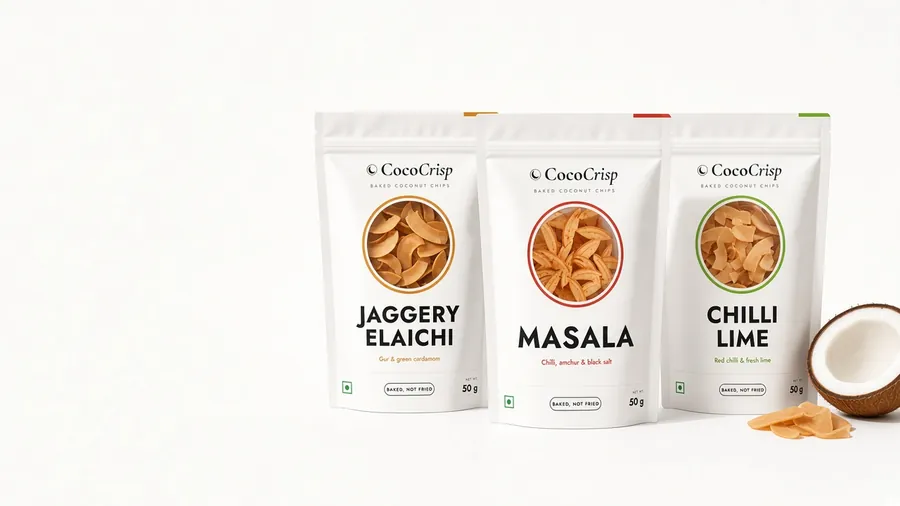
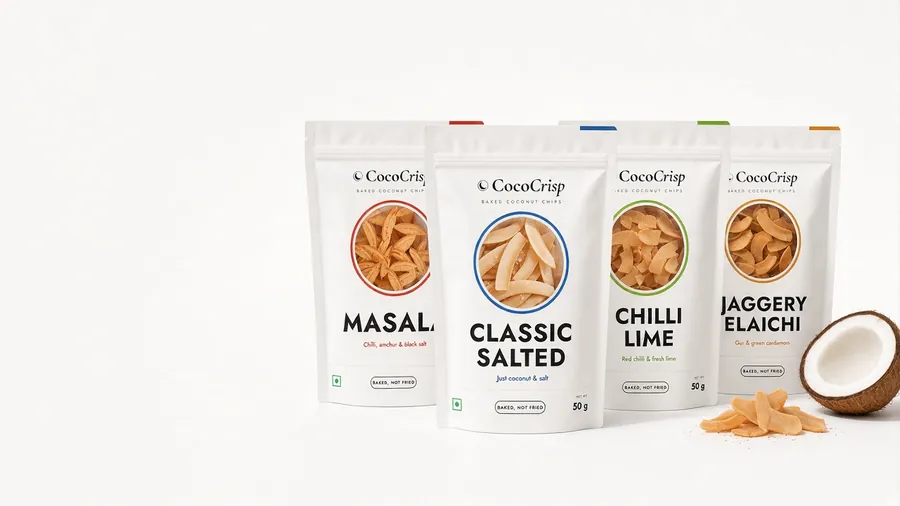
Add Classic Salted as lead flavour (4 flavours), new pouch + hero

diff --git a/index.html b/index.html
@@ -4,7 +4,7 @@
 <meta charset="utf-8">
 <meta name="viewport" content="width=device-width, initial-scale=1">
 <title>CocoCrisp · Baked Coconut Chips</title>
-<meta name="description" content="CocoCrisp: thin slices of real coconut, slow-baked, never fried, in three Indian flavours: Jaggery Elaichi, Masala and Chilli Lime. Small-batch, made in Mumbai.">
+<meta name="description" content="CocoCrisp: thin slices of real coconut, slow-baked, never fried, in four flavours: Classic Salted, Masala, Chilli Lime and Jaggery Elaichi. Small-batch, made in Mumbai.">
 <meta property="og:title" content="CocoCrisp · Baked Coconut Chips">
 <meta property="og:description" content="Real coconut, slow-baked to a crisp. Jaggery Elaichi, Masala and Chilli Lime.">
 <meta property="og:image" content="https://cococrisp.in/img/og.jpg">
@@ -17,7 +17,7 @@
 <link rel="preload" as="image" href="img/hero-mobile.webp" media="(max-width: 899px)">
 <link rel="preload" as="image" href="img/hero-1280.webp" media="(min-width: 900px)">
 <style>
-:root{--ivory:#FFFFFF;--paper:#F6F6F3;--sand:#F3F2EF;--line:#E7E5E0;--esp:#141210;--cocoa:#2A2725;--muted:#6B6762;--hero:#FAF9F7;--gold:#E0962A;--gold-d:#141210;--sage:#4E8F1F;--amber:#E0962A;--red:#D6392C;--lime:#86B52B;
+:root{--ivory:#FFFFFF;--paper:#F6F6F3;--sand:#F3F2EF;--line:#E7E5E0;--esp:#141210;--cocoa:#2A2725;--muted:#6B6762;--hero:#FAF9F7;--gold:#E0962A;--gold-d:#141210;--sage:#4E8F1F;--amber:#E0962A;--red:#D6392C;--lime:#86B52B;--blue:#1F5FA8;
 --serif:Jost,system-ui,sans-serif;--sans:Jost,system-ui,-apple-system,sans-serif;--ease:cubic-bezier(.2,.7,.2,1)}
 *{box-sizing:border-box;margin:0;padding:0}
 html{scroll-behavior:smooth;-webkit-text-size-adjust:100%}
@@ -27,7 +27,7 @@ a{color:inherit}
 h1,h2,h3{font-family:var(--serif);font-weight:600;line-height:1.02;letter-spacing:-.025em}
 .wrap{max-width:1200px;margin:0 auto;padding:0 24px}
 section{padding:96px 0;scroll-margin-top:60px}
-.eyebrow{display:flex;align-items:center;gap:10px;font-size:.72rem;font-weight:600;letter-spacing:.24em;text-transform:uppercase;color:var(--esp);margin-bottom:18px}.eyebrow::before{content:"";width:22px;height:3px;background:linear-gradient(90deg,var(--amber) 33%,var(--red) 33% 66%,var(--lime) 66%)}
+.eyebrow{display:flex;align-items:center;gap:10px;font-size:.72rem;font-weight:600;letter-spacing:.24em;text-transform:uppercase;color:var(--esp);margin-bottom:18px}.eyebrow::before{content:"";width:22px;height:3px;background:linear-gradient(90deg,var(--blue) 25%,var(--red) 25% 50%,var(--lime) 50% 75%,var(--amber) 75%);width:28px}
 h2{font-size:clamp(2.4rem,6.4vw,4rem)}
 h2 em,h1 em{font-style:normal;color:#ADA8A0}
 .lead{font-size:1.06rem;color:var(--muted);max-width:560px;font-weight:300}
@@ -59,7 +59,7 @@ nav .wrap{display:flex;align-items:center;justify-content:space-between;height:7
 .hero h1 em{font-style:normal;color:#ADA8A0}
 .hero p{margin:22px 0 32px;font-size:1.06rem;color:var(--muted);max-width:420px;font-weight:300}
 .hero .ctas{display:flex;flex-wrap:wrap;gap:22px;align-items:center}
-.hero-img{width:100%;height:auto;aspect-ratio:858/511;object-fit:cover}
+.hero-img{width:100%;height:auto;aspect-ratio:896/512;object-fit:cover}
 @media(min-width:900px){
  .hero-inner{grid-template-columns:minmax(380px,5fr) 7fr;min-height:min(86vh,800px);align-items:stretch}
  .hero picture{grid-column:2;grid-row:1;position:relative;overflow:hidden}
@@ -78,7 +78,8 @@ nav .wrap{display:flex;align-items:center;justify-content:space-between;height:7
 .strip li::before{content:"";width:6px;height:6px;border-radius:50%;background:var(--esp)}.strip li:nth-child(3n+1)::before{background:var(--amber)}.strip li:nth-child(3n+2)::before{background:var(--red)}.strip li:nth-child(3n)::before{background:var(--lime)}
 /* shop */
 .sec-head{display:flex;justify-content:space-between;align-items:flex-end;gap:24px;flex-wrap:wrap;margin-bottom:56px}
-.grid3{display:grid;grid-template-columns:repeat(3,1fr);gap:28px}
+.grid3{display:grid;grid-template-columns:repeat(4,1fr);gap:24px}
+@media(max-width:1180px){.grid3{grid-template-columns:repeat(2,1fr);gap:48px 28px}}
 .prod{display:flex;flex-direction:column}
 .prod figure{position:relative;overflow:hidden;background:#F5F5F3;aspect-ratio:4/5;border-radius:4px}
 .prod figure img{width:100%;height:100%;object-fit:cover;transition:transform 1.2s var(--ease)}
@@ -86,7 +87,7 @@ nav .wrap{display:flex;align-items:center;justify-content:space-between;height:7
 .prod .tagl{position:absolute;top:16px;left:16px;background:#fff;font-weight:600;font-size:.64rem;letter-spacing:.22em;text-transform:uppercase;padding:7px 12px;color:var(--cocoa)}
 .prod .meta{padding:24px 2px 0;display:flex;flex-direction:column;flex:1}
 .prod .swatch{width:36px;height:4px;margin-bottom:16px;border-radius:2px}
-.prod h3{font-size:1.9rem}
+.prod h3{font-size:1.75rem}
 .prod .notes{font-size:.72rem;font-weight:500;letter-spacing:.18em;text-transform:uppercase;color:var(--muted);margin:8px 0 12px}
 .prod p{color:var(--muted);font-weight:300;font-size:.98rem;flex:1}
 .price{display:flex;align-items:baseline;gap:10px;margin:20px 0 18px;padding-top:18px;border-top:1px solid var(--line)}
@@ -226,13 +227,13 @@ body.cart-open .toast{opacity:0}
   <div class="hero-inner">
     <picture>
       <source media="(min-width: 900px)" srcset="img/hero-1280.webp">
-      <img class="hero-img" src="img/hero-mobile.webp" alt="Three white CocoCrisp pouches with clear windows showing the chips: Jaggery Elaichi, Masala and Chilli Lime, beside a cracked coconut" width="858" height="511" fetchpriority="high">
+      <img class="hero-img" src="img/hero-mobile.webp" alt="Four white CocoCrisp pouches with clear windows showing the chips: Classic Salted in front, with Masala, Chilli Lime and Jaggery Elaichi, beside a cracked coconut" width="896" height="512" fetchpriority="high">
     </picture>
     <div class="hero-copy">
       <div>
         <span class="eyebrow">Small-batch coconut chips · Mumbai</span>
         <h1>Real coconut.<br>Baked <em>crisp.</em><br>Never fried.</h1>
-        <p>Paper-thin slices of mature coconut, baked, never fried, and finished in three Indian flavours.</p>
+        <p>Paper-thin slices of mature coconut, baked, never fried, and finished simply salted or in bold Indian flavours.</p>
         <div class="ctas"><a class="btn btn-dark" href="#shop">Shop the collection</a><a class="link" href="#method">Our method</a></div>
       </div>
     </div>
@@ -244,19 +245,19 @@ body.cart-open .toast{opacity:0}
 <section id="shop">
   <div class="wrap">
     <div class="sec-head reveal">
-      <div><span class="eyebrow">The collection</span><h2>Three flavours, <em>one coconut</em>.</h2></div>
+      <div><span class="eyebrow">The collection</span><h2>Four flavours, <em>one coconut</em>.</h2></div>
       <p class="lead">Each one starts the same way, with a thin slice of real coconut, and ends somewhere distinctly Indian.</p>
     </div>
     <div class="grid3">
       <article class="prod reveal">
-        <figure><img src="img/jaggery-elaichi.webp" alt="CocoCrisp Jaggery Elaichi 50 g pouch" width="691" height="864" loading="lazy"><span class="tagl">Sweet</span></figure>
+        <figure><img src="img/classic-salted.webp" alt="CocoCrisp Classic Salted 50 g pouch" width="691" height="864" loading="lazy"><span class="tagl">Savoury</span></figure>
         <div class="meta">
-          <span class="swatch" style="background:var(--amber)"></span>
-          <h3>Jaggery Elaichi</h3>
-          <span class="notes">Gur · Cardamom</span>
-          <p>Golden coconut glazed in jaggery with a warm note of green cardamom. Familiar, festive, quietly moreish.</p>
+          <span class="swatch" style="background:var(--blue)"></span>
+          <h3>Classic Salted</h3>
+          <span class="notes">Coconut · Salt</span>
+          <p>Just coconut and a pinch of salt. Clean, crunchy and quietly addictive, the one to start with.</p>
           <div class="price"><b data-price>₹49</b><small data-pack>50 g pack</small><span class="launch">Launch price</span></div>
-          <button class="btn btn-line mini" type="button" data-add="Jaggery Elaichi">Add to cart</button>
+          <button class="btn btn-line mini" type="button" data-add="Classic Salted">Add to cart</button>
         </div>
       </article>
       <article class="prod reveal">
@@ -279,6 +280,17 @@ body.cart-open .toast{opacity:0}
           <p>Bright lime and a clean chilli warmth over toasted coconut. Made for chai time, long drives and good company.</p>
           <div class="price"><b data-price>₹49</b><small data-pack>50 g pack</small><span class="launch">Launch price</span></div>
           <button class="btn btn-line mini" type="button" data-add="Chilli Lime">Add to cart</button>
+        </div>
+      </article>
+      <article class="prod reveal">
+        <figure><img src="img/jaggery-elaichi.webp" alt="CocoCrisp Jaggery Elaichi 50 g pouch" width="691" height="864" loading="lazy"><span class="tagl">Sweet</span></figure>
+        <div class="meta">
+          <span class="swatch" style="background:var(--amber)"></span>
+          <h3>Jaggery Elaichi</h3>
+          <span class="notes">Gur · Cardamom</span>
+          <p>Golden coconut glazed in jaggery with a warm note of green cardamom. Familiar, festive, quietly moreish.</p>
+          <div class="price"><b data-price>₹49</b><small data-pack>50 g pack</small><span class="launch">Launch price</span></div>
+          <button class="btn btn-line mini" type="button" data-add="Jaggery Elaichi">Add to cart</button>
         </div>
       </article>
     </div>
@@ -306,7 +318,7 @@ body.cart-open .toast{opacity:0}
     <div class="steps">
       <div class="step reveal"><span class="num">i.</span><h3>Pick &amp; peel</h3><p>Mature coconuts are opened and every trace of brown skin is pared away by hand.</p></div>
       <div class="step reveal"><span class="num">ii.</span><h3>Slice thin</h3><p>The white flesh is cut into long, paper-thin ribbons so each chip bakes light and even.</p></div>
-      <div class="step reveal"><span class="num">iii.</span><h3>Flavour</h3><p>Slices rest in jaggery, a light syrup or our spice blends to take on each flavour.</p></div>
+      <div class="step reveal"><span class="num">iii.</span><h3>Flavour</h3><p>Slices are seasoned with salt or our spice blends, or rest in jaggery, to take on each flavour.</p></div>
       <div class="step reveal"><span class="num">iv.</span><h3>Bake &amp; seal</h3><p>Slow-dried and toasted until golden, then sealed straight away to keep the crunch.</p></div>
     </div>
   </div>
@@ -360,10 +372,11 @@ body.cart-open .toast{opacity:0}
   <div class="wrap">
     <div class="reveal"><span class="eyebrow">FAQ</span><h2>Good <em>questions</em>.</h2></div>
     <details><summary>Are CocoCrisp chips fried?</summary><p>No. They're slow-dried and toasted in an oven, never deep fried.</p></details>
-    <details><summary>What are they made of?</summary><p>Thin slices of real mature coconut, plus the flavouring for each variety: jaggery and cardamom; a light syrup with chilli, amchur, black salt and chaat masala; or chilli and lime. The full ingredient list is printed on every pack.</p></details>
-    <details><summary>How do I order?</summary><p>Choose a flavour and tap "Add to cart", then open the cart and continue to checkout with your delivery details. Online payment is launching soon.</p></details>
+    <details><summary>What are they made of?</summary><p>Thin slices of real mature coconut, plus the seasoning for each variety: just salt for Classic Salted; chilli, amchur, black salt and chaat masala for Masala; chilli and lime for Chilli Lime; or jaggery and cardamom for Jaggery Elaichi. The full ingredient list is printed on every pack.</p></details>
+    <details><summary>How do I order?</summary><p>Choose any of our four flavours and tap "Add to cart", then open the cart and continue to checkout with your delivery details. Online payment is launching soon.</p></details>
     <details><summary>How much does a pack cost?</summary><p>Each 50 g pack is ₹49 at our launch price. You'll see the full total, including any shipping, before you pay.</p></details>
     <details><summary>Where do you deliver?</summary><p>We're starting in Mumbai. Not sure if we reach you? Contact us on WhatsApp from the link at the bottom of the page.</p></details>
+    <details><summary>Which flavour should I try first?</summary><p>If you like your chips namkeen, start with Classic Salted, then go bolder with Masala or Chilli Lime. Jaggery Elaichi is the one for a sweet tooth.</p></details>
     <details><summary>How should I store them?</summary><p>Keep the pouch sealed in a cool, dry place. Once opened, reseal it tightly so the chips stay crisp.</p></details>
     <details><summary>Are you FSSAI registered?</summary><p>Yes, CocoCrisp is FSSAI registered.</p></details>
     <details><summary>Do you do bulk or custom orders?</summary><p>Yes. For retail, cafés, gifting or events, use the wholesale enquiry above and tell us what you need.</p></details>

diff --git a/app.js b/app.js
@@ -20,6 +20,7 @@ var CONFIG = {
 };
 
 var FLAVOURS = {
+  'Classic Salted':  { color: '#1F5FA8', img: 'img/classic-salted-thumb.webp' },
   'Jaggery Elaichi': { color: '#E0962A', img: 'img/jaggery-elaichi-thumb.webp' },
   'Masala':          { color: '#D6392C', img: 'img/masala-thumb.webp' },
   'Chilli Lime':     { color: '#86B52B', img: 'img/chilli-lime-thumb.webp' }

diff --git a/README.md b/README.md
@@ -60,7 +60,7 @@ round clear window showing the real chips. Deliberately distinct from Sukoon (kr
 - `logo-mono.svg` / `logo-mono-white.svg` – primary logo for white / dark backgrounds (crescent mark + "CocoCrisp" wordmark, outlined).
   `logo.svg` / `logo-light.svg` – gold-mark variant. PNGs: `logo-dark-on-light.png`, `logo-light-on-dark.png`, `logo-mark.png`,
   `logo-instagram-dark.png`, `logo-instagram-light.png` (1080×1080).
-- Palette: white `#FFFFFF`, ink `#141210`, light grey `#F6F6F3`; flavour accents Jaggery Elaichi amber `#E0962A`,
+- Palette: white `#FFFFFF`, ink `#141210`, light grey `#F6F6F3`; flavour accents Classic Salted blue `#1F5FA8`, Jaggery Elaichi amber `#E0962A`,
   Masala red `#D6392C`, Chilli Lime green `#86B52B`.
 - Type: Jost (all site + pack text, SIL OFL); Cormorant Garamond only inside the logo (outlined).
 - `packaging/<flavour>-front.svg` / `-front-print.pdf` – flat front panel per flavour, 130 × 200 mm trim + 3 mm bleed
